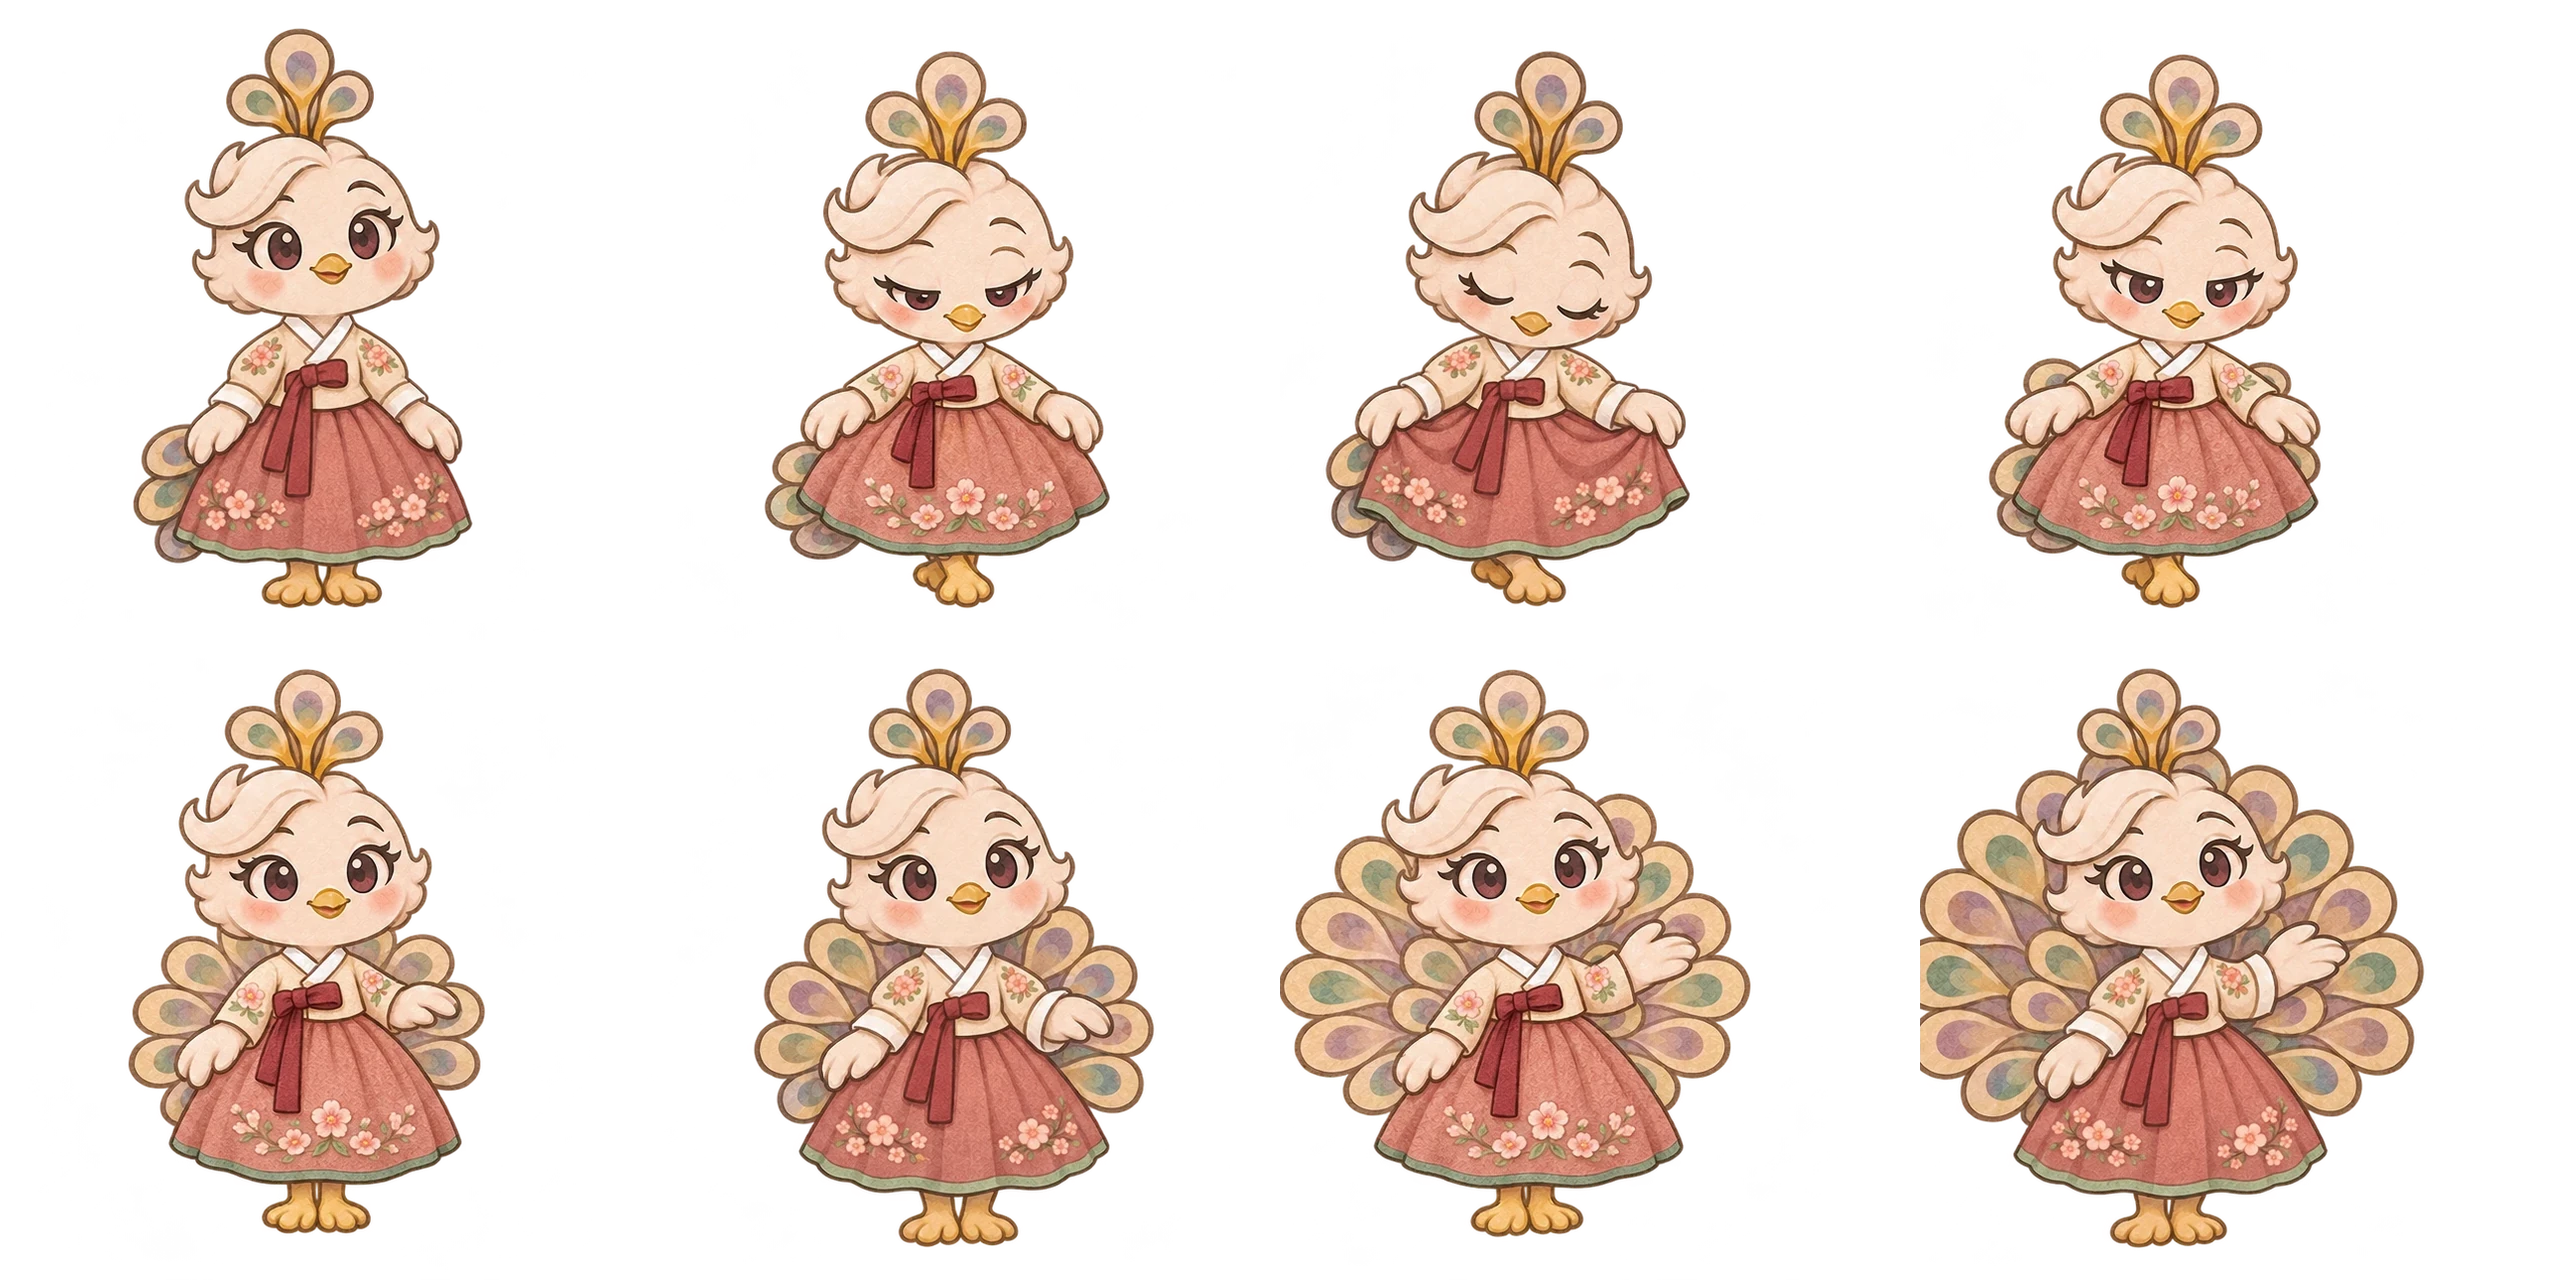
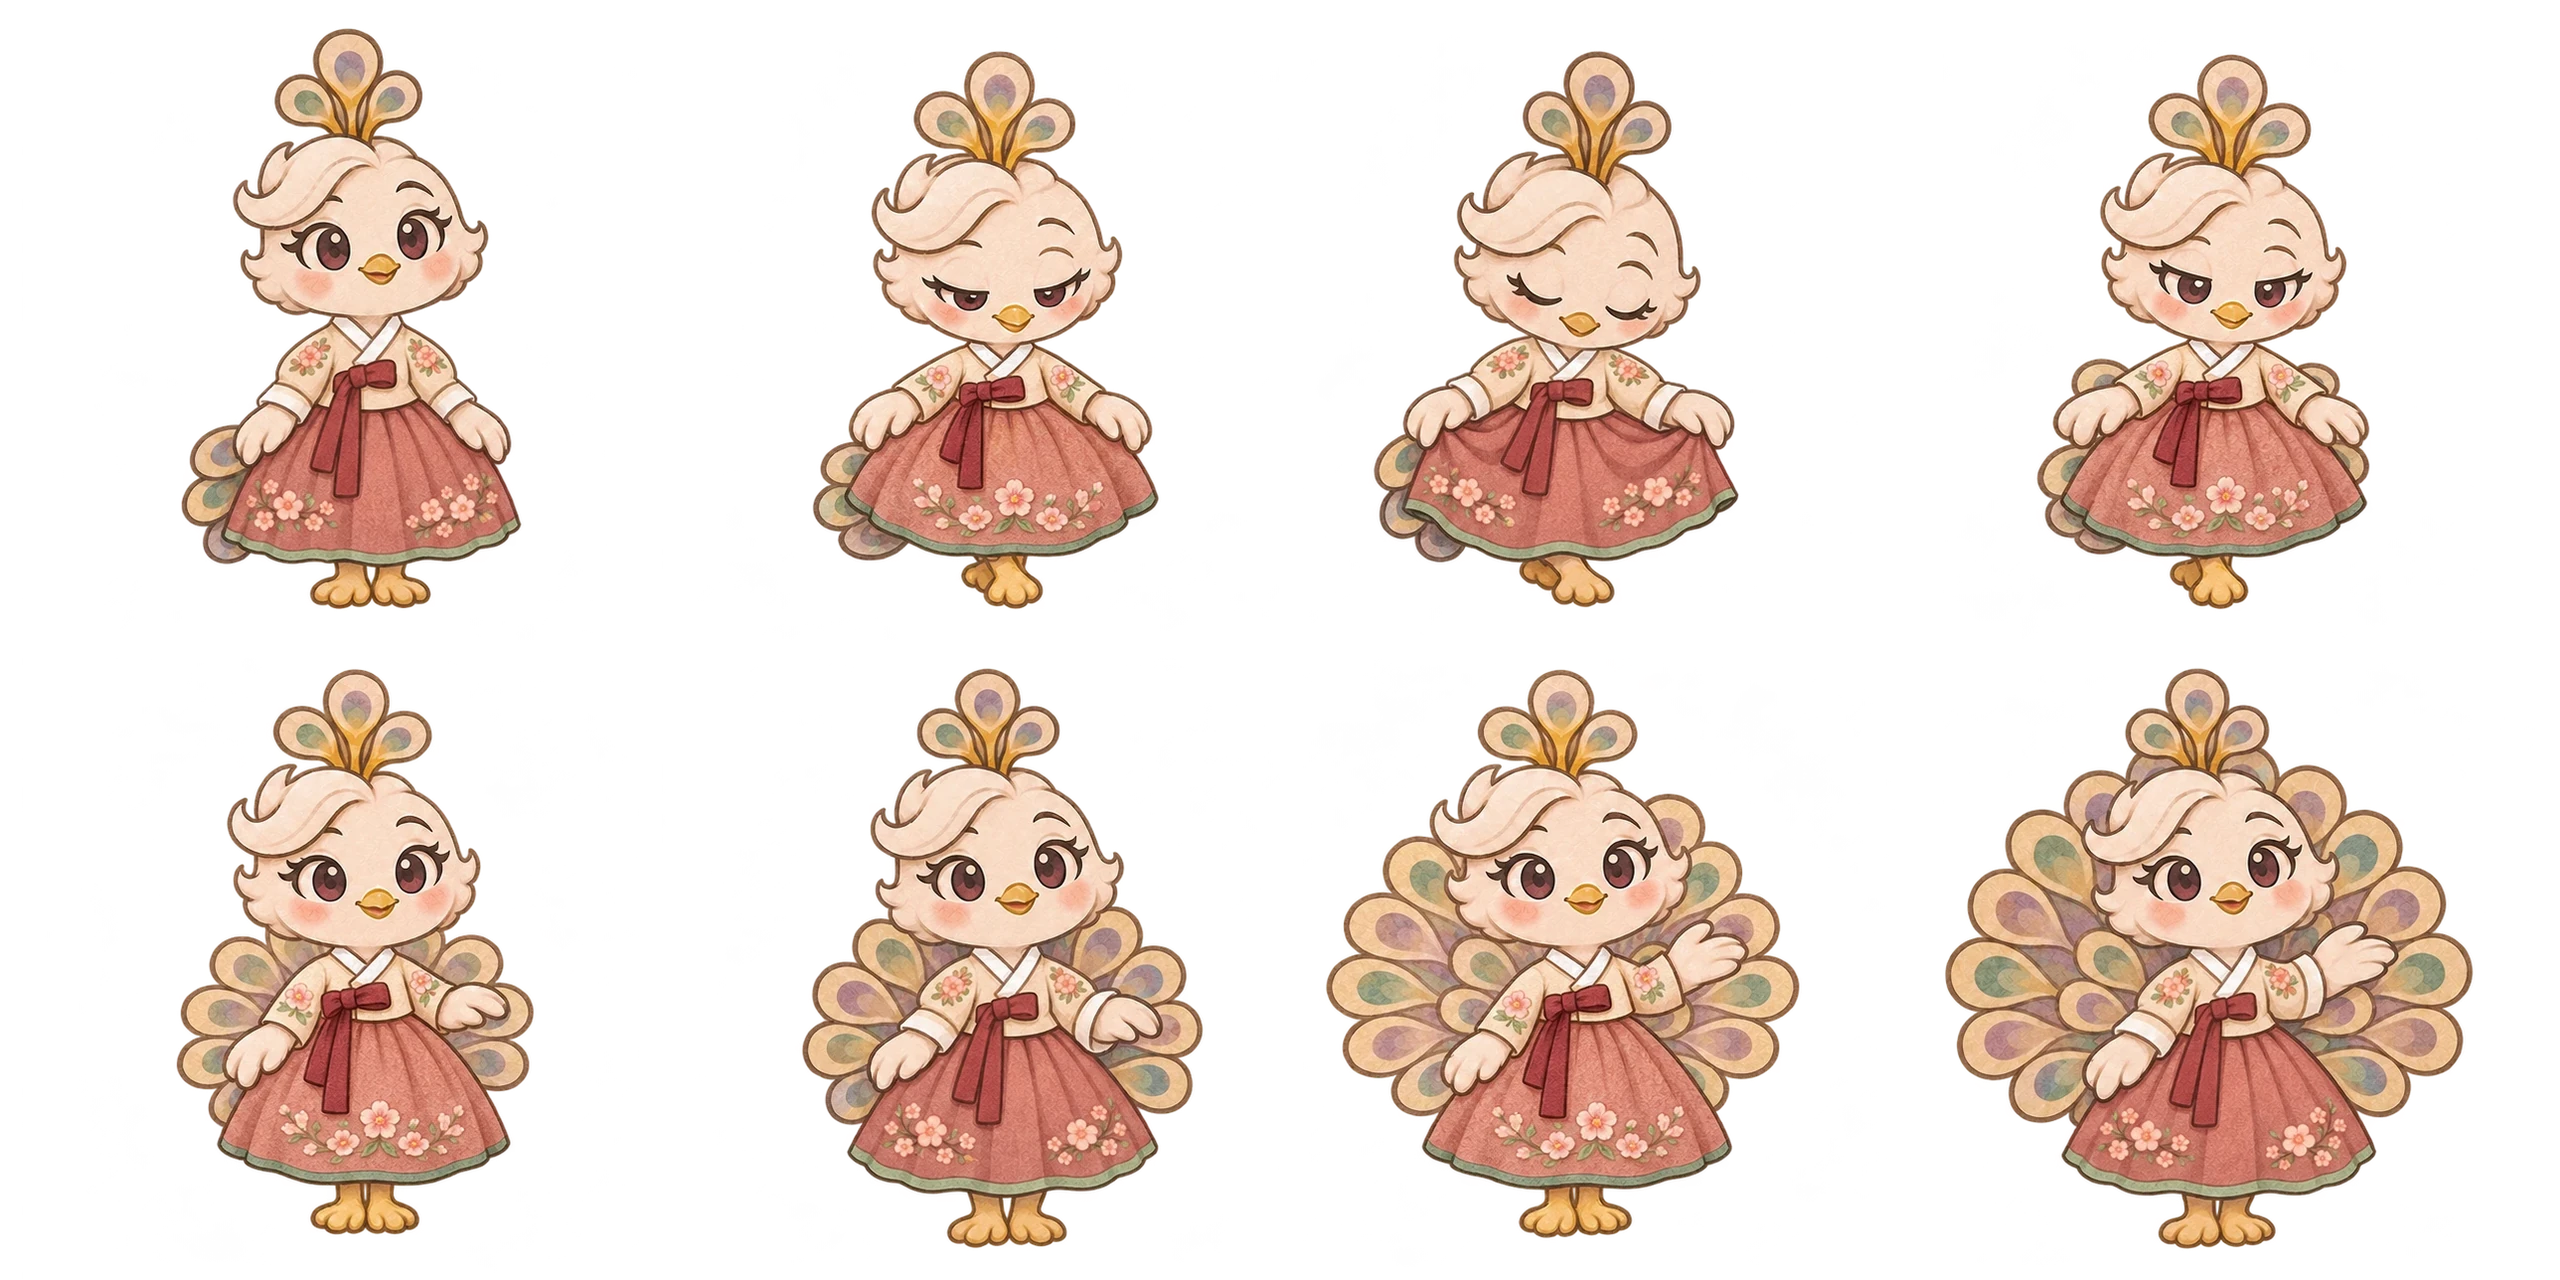
무지개 행진길 리리 인사 꼬리 잘림 고치기: 인사 그림 발 기준점을 (320,608) → (370,608)
- 꼬리깃을 활짝 편 6·7번 프레임이 발보다 왼쪽으로 345px까지 펼쳐져 640 칸 왼쪽에서 잘리던 것
- tools/build_hanok_npcs.py: 리리 인사는 자기 결과물을 다시 읽지 않고 고정 기준(발 (370,608), 몸 키 581)으로 만듦
- 퍼레이드(show.js)·대기실(ui.js)·시작 창 얼굴이 새 기준점(RIRI_FOOT_X)을 씀 — 화면 위치·크기는 그대로

diff --git a/js/parade/show.js b/js/parade/show.js
@@ -2,7 +2,7 @@
  * 무지개 행진길 — 퍼레이드 보기(그리기만 담당)
  * ------------------------------------------------------------
  * 현수막 꾸미기 화면(js/parade/ui.js)의 퍼레이드 팝업 안에 그립니다.
- *  1. 리리가 8프레임 오프닝으로 인사하고 무지개 꼬리를 펼침(assets/parade/riri-opening.webp, 640 칸, 발 (320,608))
+ *  1. 리리가 8프레임 오프닝으로 인사하고 무지개 꼬리를 펼침(assets/parade/riri-opening.webp, 640 칸, 발 (370,608) — 활짝 편 꼬리깃이 칸 안에 다 들어가게 발을 오른쪽에 둠)
  *  2. 시작 1120ms(오프닝 README 의 카트 신호)에 모모·루루가 현수막을 들고 왼쪽에서 걸어 들어옴.
  *     리리는 행렬이 가까이 오면 걷기 그림으로 바꿔 맨 앞에서 같이 걸음
  *  3. 현수막 가운데가 화면 가운데에 오면 잠깐 멈춰 작품을 보여 주고, 다시 걸어서 오른쪽으로 퇴장
@@ -17,6 +17,7 @@
   'use strict';
   var IW = 1672, IH = 941;
   var OPEN_MS = [220, 110, 290, 135, 110, 130, 125, 760], CART_CUE = 1120;
+  var RIRI_FOOT_X = 370;                                       // 인사 그림 칸 안 발 가운데 x (tools/build_hanok_npcs.py 의 RIRI_FOOT)
   var WALK = { size: 448, frameMs: 95, speed: 0.33 };          // 걷기 칸·한 프레임 시간·화면 px/ms
   var K = 1.08;                                                // 걷기 그림 배율(몸 키 약 440px)
   var KO = K * 408 / 580;                                      // 오프닝 배율: 오프닝 몸 키(580)를 걷기 몸 키(408)에 맞춤
@@ -248,7 +249,7 @@
       if (lead <= GREET_X) {
         shadow(GREET_X, 140 * K);
         var f = openingFrame(ms), s = 640;
-        ctx.drawImage(imgs.open, f % 4 * s, Math.floor(f / 4) * s, s, s, GREET_X - 320 * KO, GROUND - 608 * KO, s * KO, s * KO);
+        ctx.drawImage(imgs.open, f % 4 * s, Math.floor(f / 4) * s, s, s, GREET_X - RIRI_FOOT_X * KO, GROUND - 608 * KO, s * KO, s * KO);
       } else {
         shadow(lead, 110 * K);
         sheet(imgs.riri, frame, lead - RIRI.mid * K, GROUND - RIRI.foot * K);

diff --git a/js/parade/ui.js b/js/parade/ui.js
@@ -51,7 +51,8 @@
     eraser: '<svg viewBox="0 0 24 24" aria-hidden="true"><path d="M15.1 3.6 21 9.5c.8.8.8 2 0 2.8L12.3 21H6.8l-3.6-3.6c-.8-.8-.8-2 0-2.8L12.3 3.6c.8-.8 2-.8 2.8 0z" fill="#f2a0b0"/><path d="M8.6 9.1 15.5 16l-5 5H6.8l-3.6-3.6c-.8-.8-.8-2 0-2.8z" fill="#fff"/><path d="M12 21h9" stroke="#b77" stroke-width="1.6"/></svg>'
   };
 
-  // ---------- 리리 인사(오프닝 8프레임, 640 칸, 발 (320,608)) ----------
+  // ---------- 리리 인사(오프닝 8프레임, 640 칸, 발 (370,608) — tools/build_hanok_npcs.py 의 RIRI_FOOT) ----------
+  var RIRI_FOOT_X = 370;
   var OPEN_MS = [220, 110, 290, 135, 110, 130, 125, 760];
   var riri = new Image(); riri.src = BASE + 'riri-opening.webp';
   function openingFrame(ms) {
@@ -195,7 +196,7 @@
   function drawFace() {
     var g = ui.face.getContext('2d');
     g.clearRect(0, 0, 320, 320);
-    if (riri.complete && riri.naturalWidth) g.drawImage(riri, 150, 30, 340, 340, 0, 0, 320, 320);   // 프레임 0의 얼굴·가슴
+    if (riri.complete && riri.naturalWidth) g.drawImage(riri, RIRI_FOOT_X - 170, 30, 340, 340, 0, 0, 320, 320);   // 프레임 0의 얼굴·가슴
   }
   function openStart() {
     if (S.start) return;
@@ -559,7 +560,7 @@
     shadow(c, RIRI_POS.x, RIRI_POS.y, 68);
     if (riri.complete && riri.naturalWidth) {
       var bob = f === 0 ? Math.sin(now / 420) * 3 : 0;
-      c.drawImage(riri, f % 4 * 640, Math.floor(f / 4) * 640, 640, 640, RIRI_POS.x - 320 * k, RIRI_POS.y - 608 * k + bob, 640 * k, 640 * k);
+      c.drawImage(riri, f % 4 * 640, Math.floor(f / 4) * 640, 640, 640, RIRI_POS.x - RIRI_FOOT_X * k, RIRI_POS.y - 608 * k + bob, 640 * k, 640 * k);
     }
   }
   function drawMe(c, t) {

diff --git a/tools/build_hanok_npcs.py b/tools/build_hanok_npcs.py
@@ -14,7 +14,7 @@
   arcade-src/pixel-hanok-sheet.webp (4×2)     → arcade/pixel-walk(8칸 띠), pixel-idle(0번)
   thrill-src/toto-hanok-sheet.webp (4×2)      → thrill/toto(8칸 띠), toto-face(0번 윗부분)
   gatekeeper-src/ghost-float-hanok.webp (4×2) → gatekeeper/ghost-float-00~07, ghost-float-idle, ghost-hello, ghost-idle
-  parade-src/riri-opening-hanok-a/b.webp (2×2 두 장) → parade/riri-opening(640 칸 4×2)
+  parade-src/riri-opening-hanok-a/b.webp (2×2 두 장) → parade/riri-opening(640 칸 4×2, 발 (370, 608))
   gatekeeper-src/lobby.webp                   → gatekeeper/lobby.webp
 """
 import os
@@ -135,8 +135,10 @@ report['ghost bottoms'] = [int(bbox(f)[3]) for f in fr]
 a = cells('parade-src/riri-opening-hanok-a.webp', 2, 2)
 b = cells('parade-src/riri-opening-hanok-b.webp', 2, 2)
 order = [b[0], a[0], b[1], a[1], a[2], b[2], a[3], b[3]]
-anc, hgt = old_anchor('parade/riri-opening.webp', (0, 0, 640, 640))
-fr = place_all(order, (640, 640), anc, hgt)
+# 발 기준점을 (370, 608)에 둠 — 꼬리깃을 활짝 편 7번 프레임이 발보다 왼쪽으로 345px 넘게 펼쳐져
+# 예전 기준(320)이면 칸 왼쪽에서 잘림. 몸 키 581(예전 그림과 같음). js/parade 의 RIRI_FOOT_X 와 같은 값
+RIRI_FOOT = (370, 608)
+fr = place_all(order, (640, 640), RIRI_FOOT, 581)
 sheet = Image.new('RGBA', (2560, 1280), (0, 0, 0, 0))
 for i, f in enumerate(fr):
     sheet.alpha_composite(f, ((i % 4) * 640, (i // 4) * 640))
